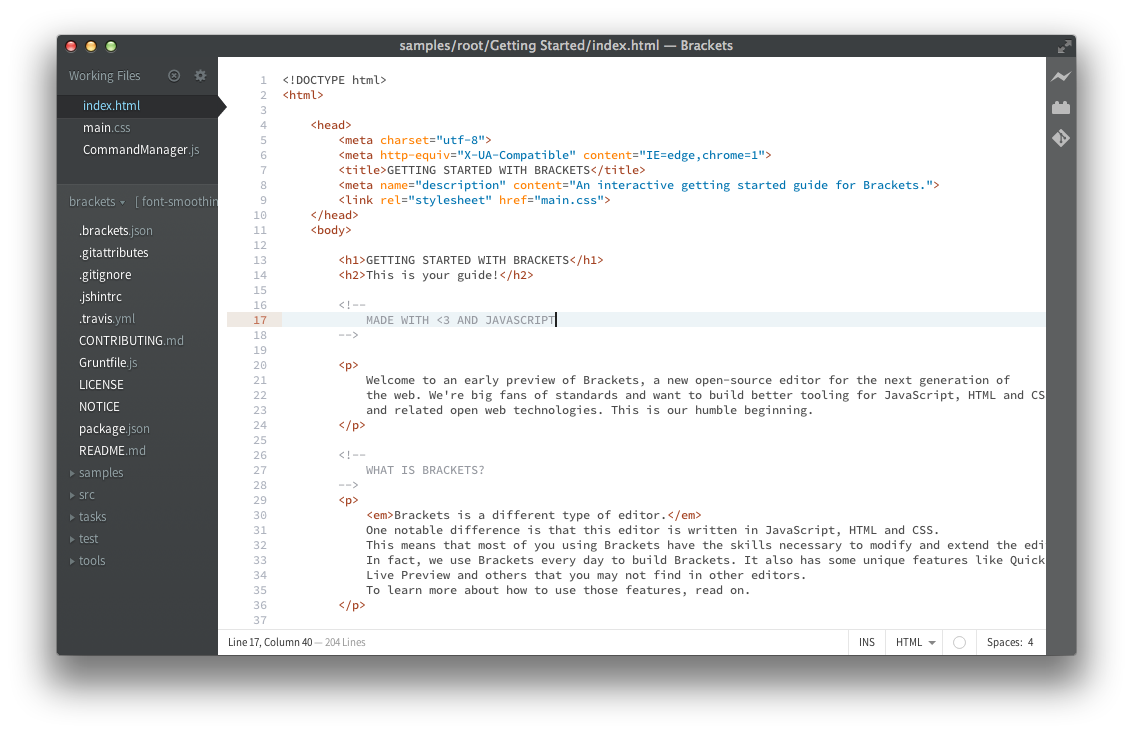
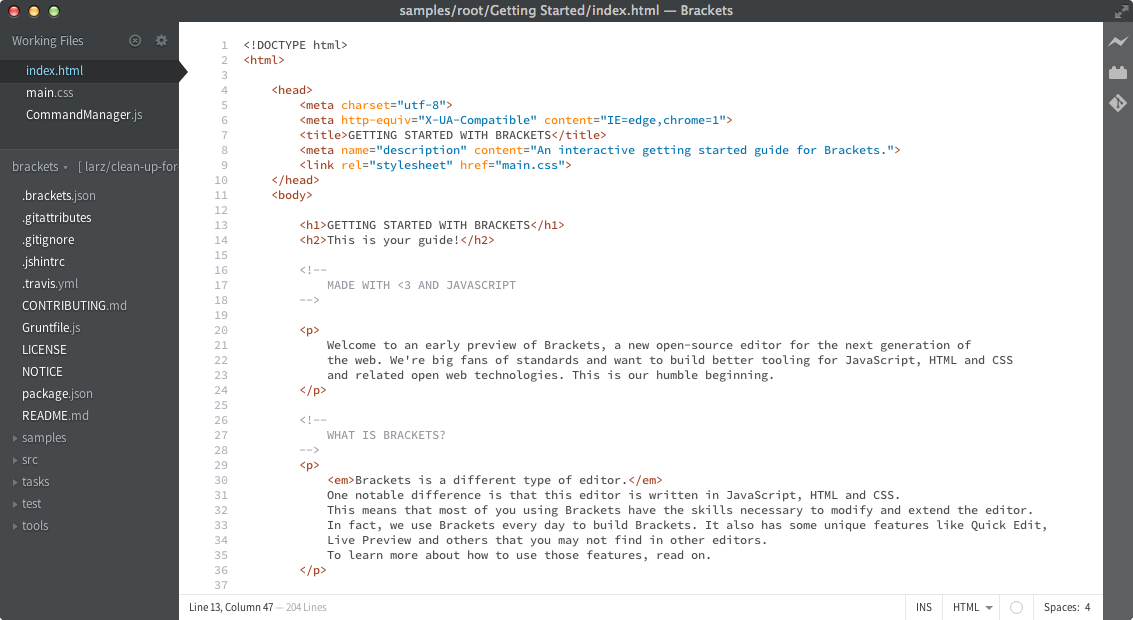
Update.

diff --git a/dieterbamz.css b/dieterbamz.css
@@ -38,11 +38,11 @@ span.cm-error		{ color: #ff0076; }
 }
 
 .CodeMirror-cursor {
-	border-left: 2px solid #222 !important;
+	border-left: 1px solid #222 !important;
 }
 
 .CodeMirror-overwrite .CodeMirror-cursor {
-    border-bottom: 2px solid #222 !important;
+    border-bottom: 1px solid #222 !important;
     border-left: none !important;
 }
 
